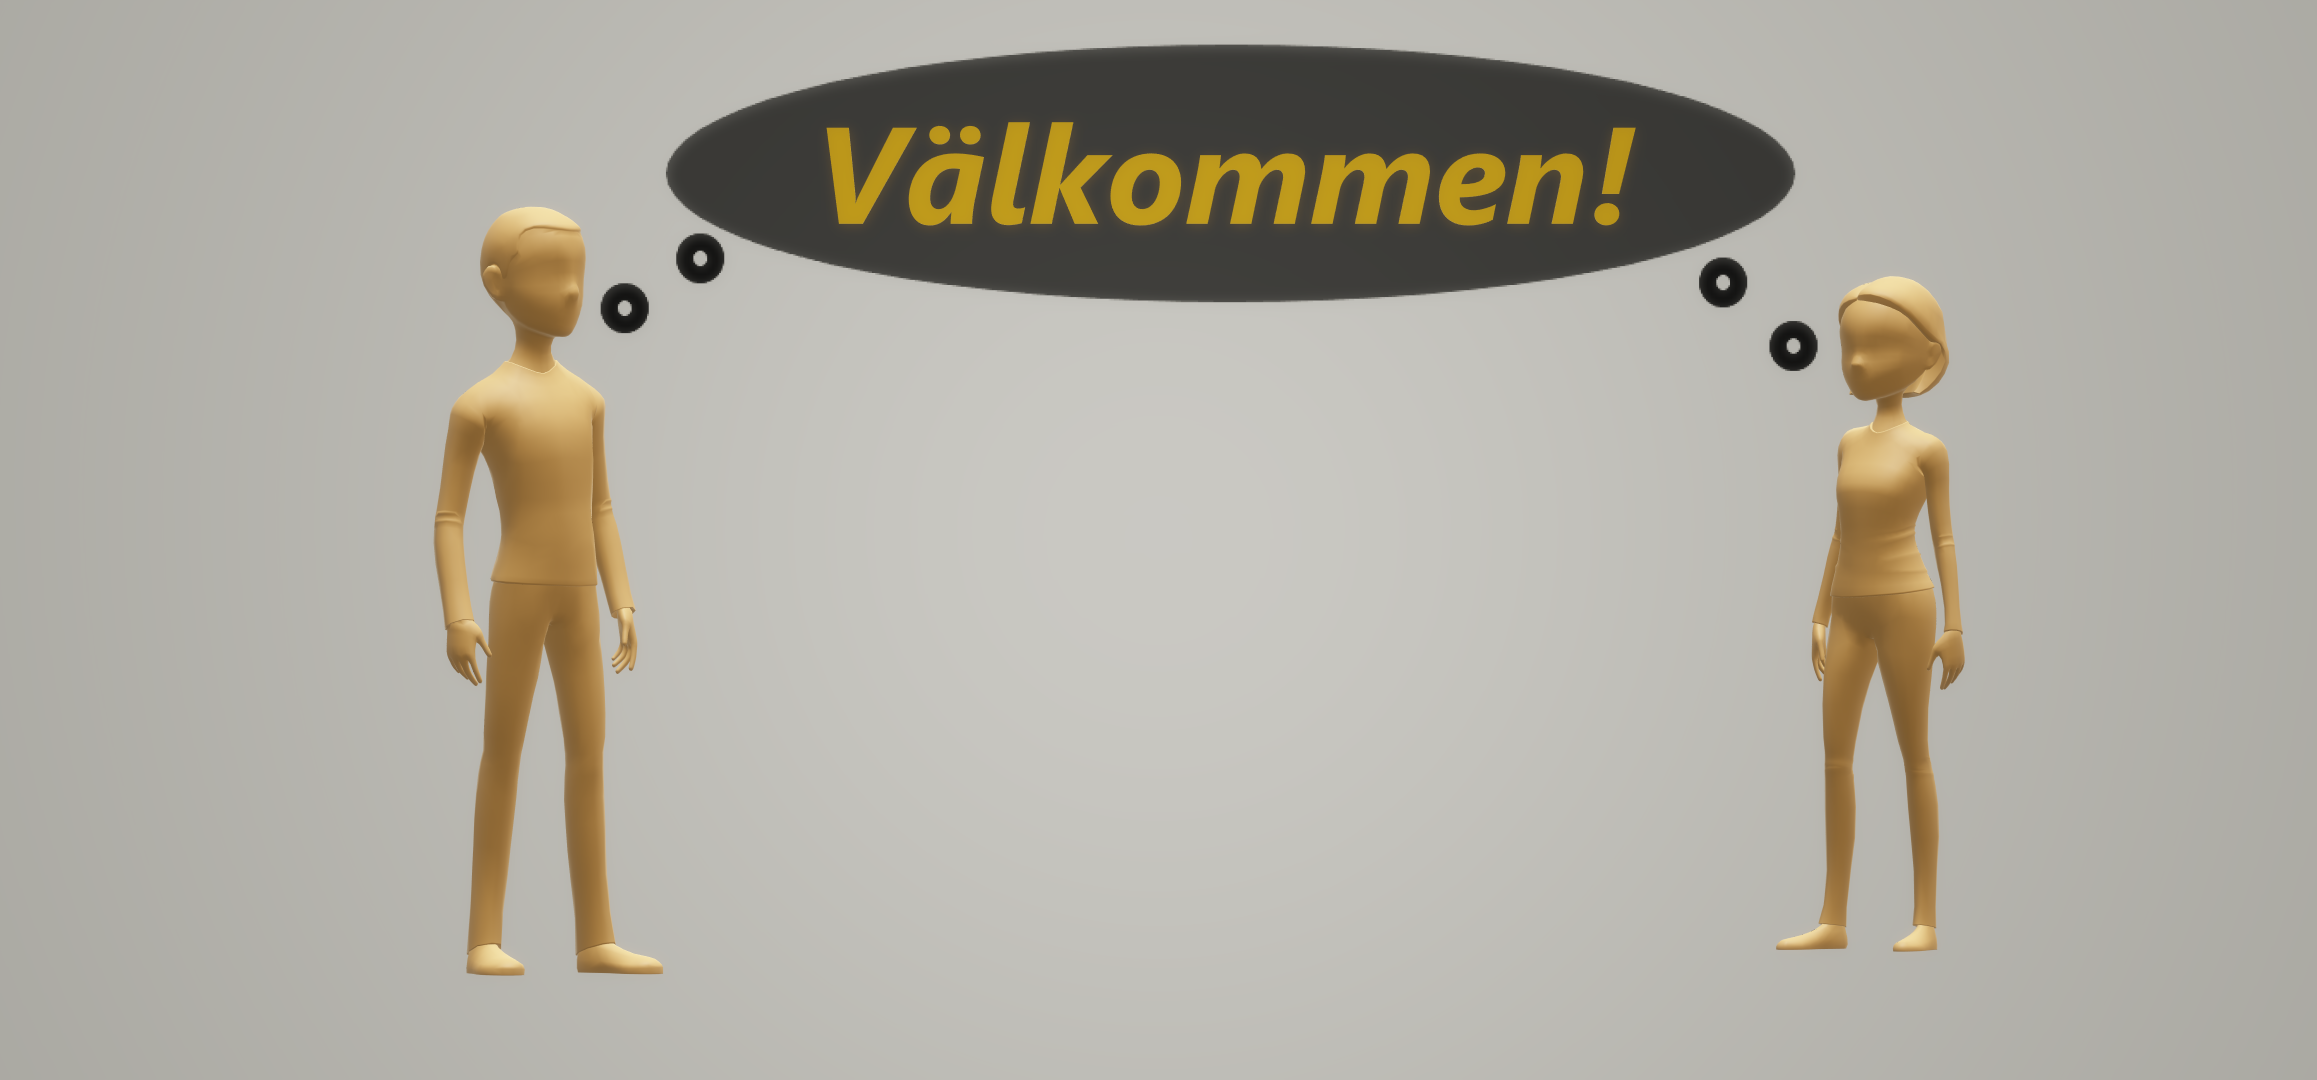
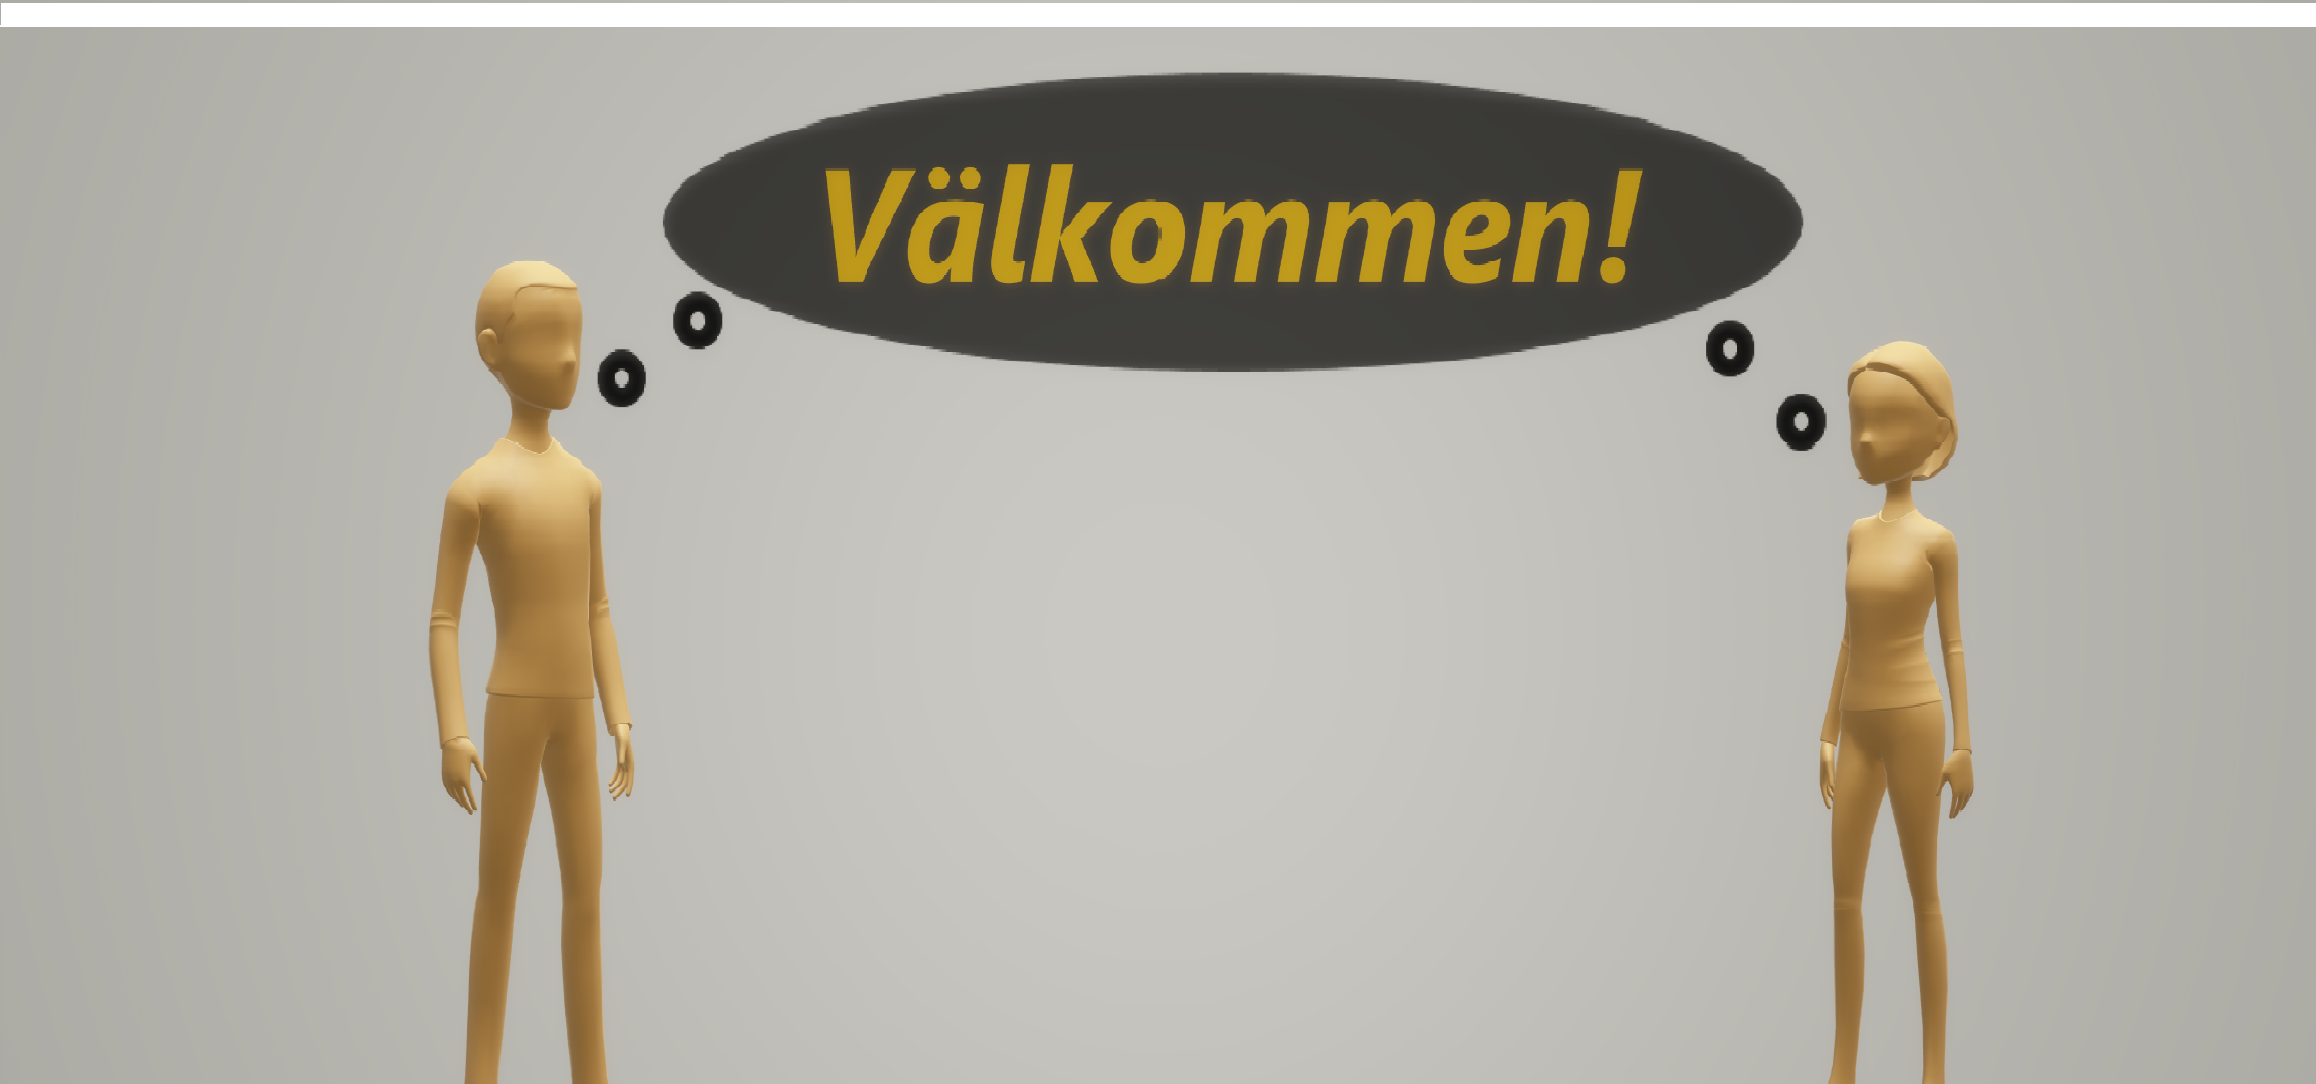
Startsida klar

Changed region(s): [[0.0, 0.0, 1.0, 1.0]]

diff --git a/style.css b/style.css
@@ -2,4 +2,28 @@
     background-image: url("Bild Sida.png");
     background-repeat: no-repeat; 
     background-size: cover;
-}
+    margin-top:20px;
+}.nav_bar--horizontal {
+    list-style-type: none;
+    margin: 0;
+    padding: 0;
+    overflow: hidden;
+    background-color: #333;
+    position: fixed;
+    top: 0;
+    left: 0;
+    width: 100%;
+  }
+  
+  .nav_bar--horizontal a {
+    display: block;
+    color: white;
+    text-align: center;
+    padding: 4px 35px;
+    text-decoration: none;
+  }
+  
+  .nav_bar--horizontal li {
+    float: left;
+  }
+  

diff --git a/index.html b/index.html
@@ -9,8 +9,25 @@
     <link rel="stylesheet" href="/style.css">
 
   </head>  
-  <body Class="BildStartsida  ">
+  <body class="BildStartsida  ">
 
   </body>
   <script src="js/script.js"></script>
 </html>
+<ul class="nav_bar--horizontal">
+  <li>
+    <a href="">Startsida</a>
+  </li>
+  <li>
+    <a href="">Viktiga händelser</a>
+  </li>
+  <li>
+    <a href="">Hur hemsidor har utvecklats</a>
+  </li>
+  <li>
+    <a href="">Internets grundläggande principer</a>
+  </li>
+  <li>
+    <a href="">Webbpubliceringssystem</a>
+  </li>
+</ul>
